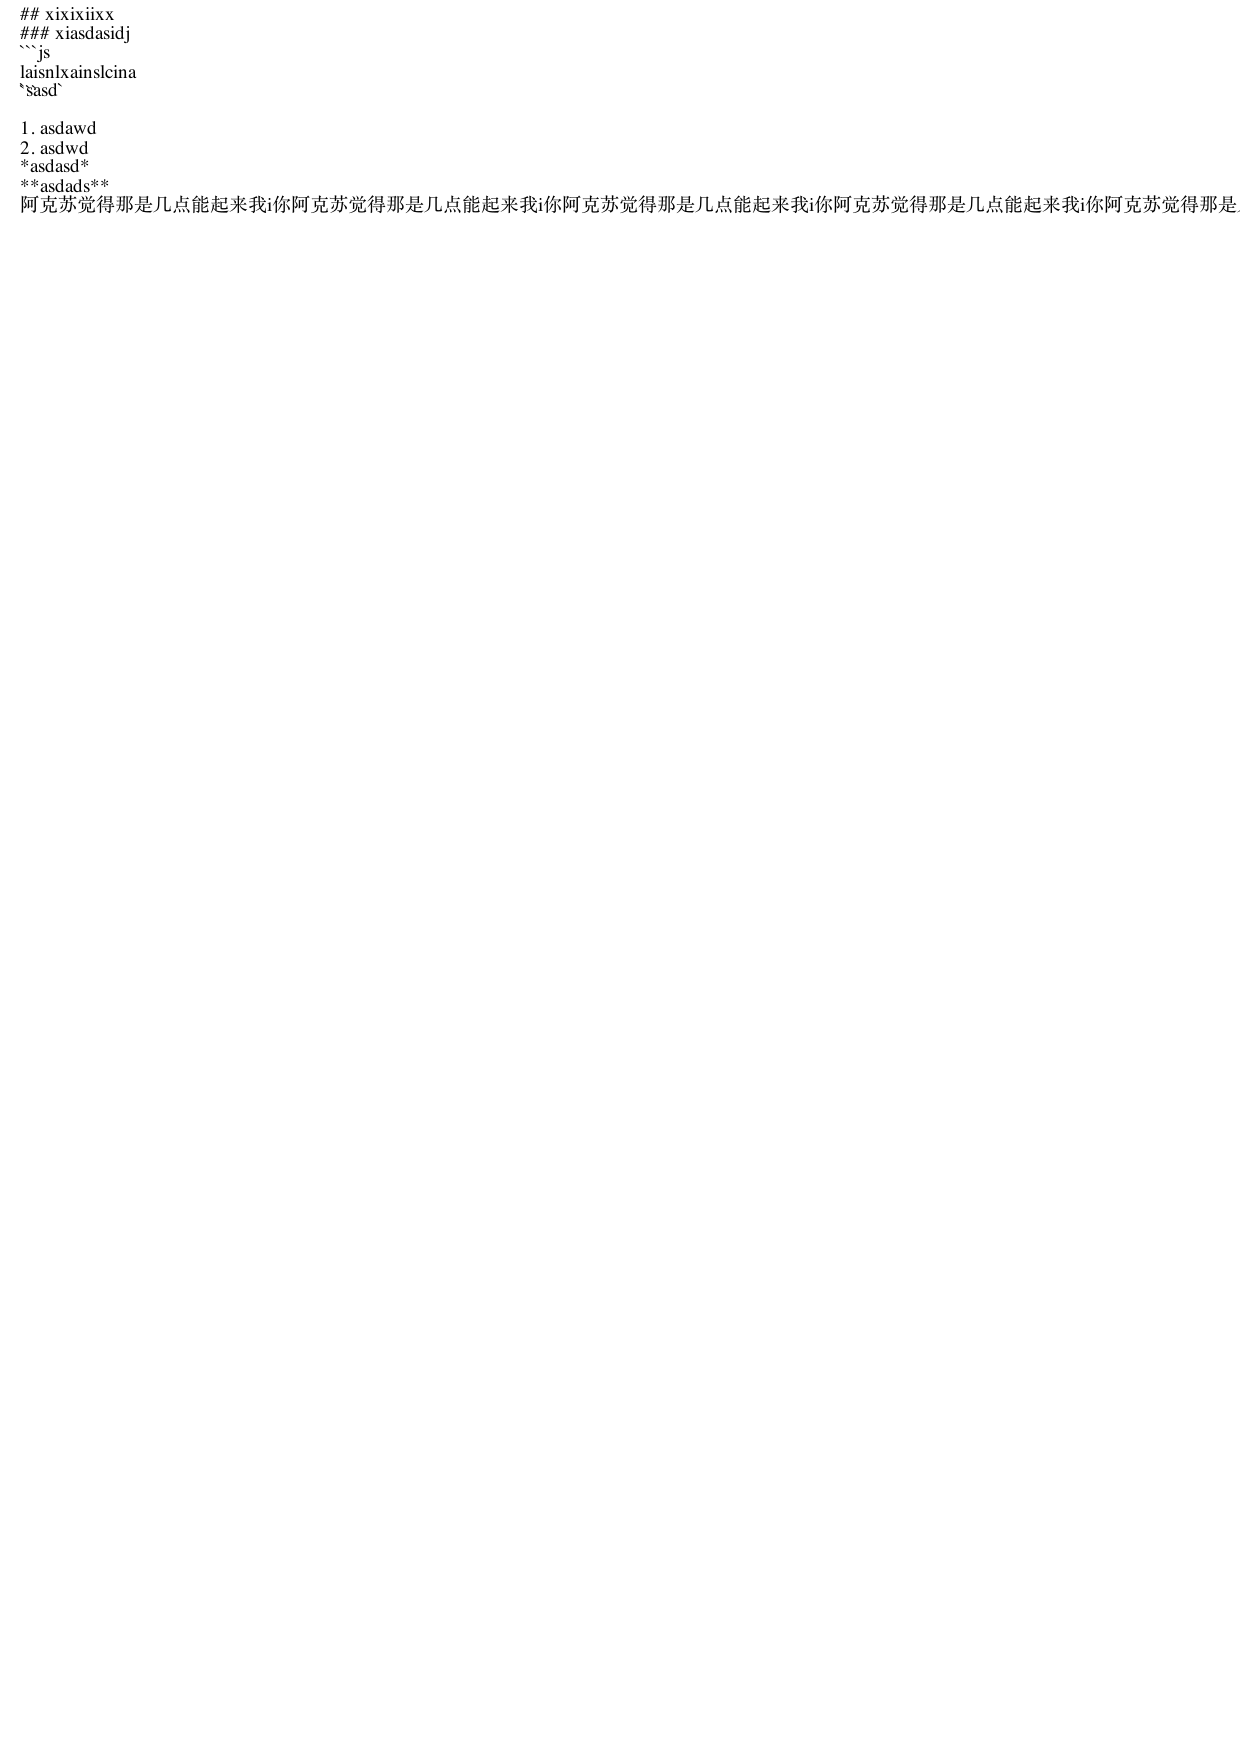
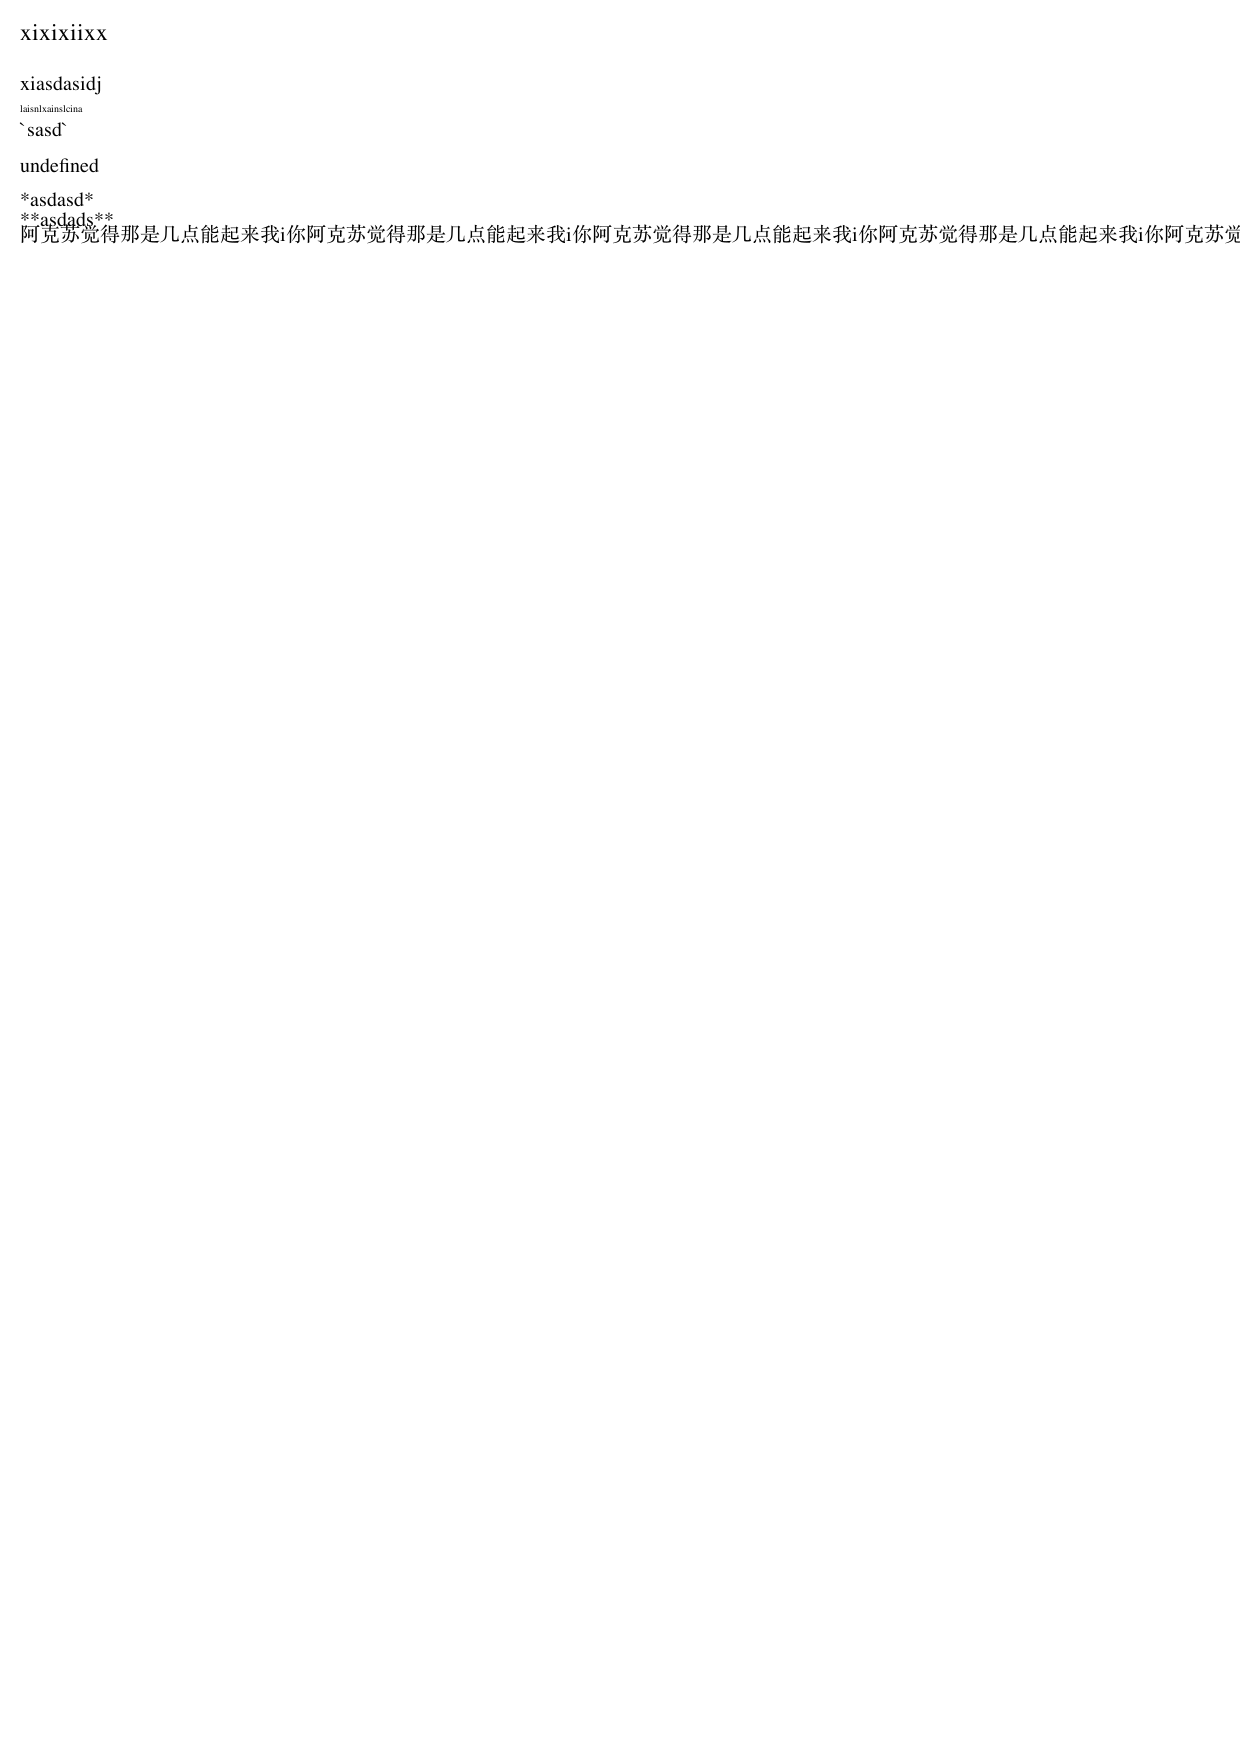
根据标签调整绘制字体

Changed region(s): [[0.0, 0.0, 1.0, 0.1539]]

diff --git a/src/rule.ts b/src/rule.ts
@@ -1,0 +1,85 @@
+type Rules = {
+    fontSize: number,
+    marginTop: number,
+    marginBottom: number,
+    blod: boolean
+}
+const em = 20
+
+const h1: Rules = {
+    fontSize: 2 * em,
+    marginTop: 0.67 * em,
+    marginBottom: 0.67 * em,
+    blod: true
+}
+const h2: Rules = {
+    fontSize: 1.5 * em,
+    marginTop: 0.83 * em,
+    marginBottom: 0.83 * em,
+    blod: true
+}
+const h3: Rules = {
+    fontSize: 1.17 * em,
+    marginTop: 1 * em,
+    marginBottom: 1 * em,
+    blod: true
+}
+const h4: Rules = {
+    fontSize: 1 * em,
+    marginTop: 1.33 * em,
+    marginBottom: 1.33 * em,
+    blod: true
+}
+const h5: Rules = {
+    fontSize: 0.83 * em,
+    marginTop: 1.67 * em,
+    marginBottom: 1.67 * em,
+    blod: true
+}
+const h6: Rules = {
+    fontSize: 0.67 * em,
+    marginTop: 2.33 * em,
+    marginBottom: 2.33 * em,
+    blod: true
+}
+export const Rules = {
+    heading: [
+        h1, h2, h3, h4, h5, h6
+    ],
+    text: {
+        fontSize: 1 * em,
+        marginTop: 0.1 * em,
+        marginBottom: 0.1 * em,
+        blod: false
+    },
+    strong: {
+        fontSize: 1 * em,
+        marginTop: 0.1 * em,
+        marginBottom: 0.1 * em,
+        blod: true
+    },
+    paragraph: {
+        fontSize: 1 * em,
+        marginTop: 0.1 * em,
+        marginBottom: 0.1 * em,
+        blod: true
+    },
+    space: {
+        fontSize: 0 * em,
+        marginTop: 0.6 * em,
+        marginBottom: 0.6 * em,
+        blod: false
+    },
+    code: {
+        fontSize: 0.5 * em,
+        marginTop: 0.1 * em,
+        marginBottom: 0.1 * em,
+        blod: false
+    },
+    list: {
+        fontSize: 1 * em,
+        marginTop: 0.2 * em,
+        marginBottom: 0.2 * em,
+        blod: true
+    }
+}

diff --git a/src/draw.ts b/src/draw.ts
@@ -1,4 +1,5 @@
-import { NodeCanvasRenderingContext2DSettings } from "canvas";
+import { marked } from "marked";
+import { Rules } from './rule'
 export const DrawObj = {
     space: (canvas: CanvasRenderingContext2D) => { console.log("space"); return canvas },
     code: (canvas: CanvasRenderingContext2D) => { console.log("code"); return canvas },
@@ -35,11 +36,17 @@ export class Pointer {
         this.set = [offset.xoffset, offset.yoffset]
     }
 
-    draw(ctx: any, content: string) {
-
+    draw(ctx: any, content: marked.Token) {
+        //@ts-ignore
+        const typeStyle = content.type === "heading" ? Rules.heading[content.depth] : Rules[content.type]
         ctx.fillStyle = "black"
-        ctx.font = fontSize
-        ctx.fillText(content, this.set[0], this.set[1])
-        this.set[1] += 19
+        ctx.font = typeStyle.fontSize + "px serif"
+        if (content.type === "space") {
+            ctx.fillText(content.raw, this.set[0], this.set[1] + typeStyle.marginTop)
+        } else {
+            //@ts-ignore
+            ctx.fillText(content.text, this.set[0], this.set[1] + typeStyle.marginTop)
+        }
+        this.set[1] = this.set[1] + typeStyle.fontSize + typeStyle.marginBottom
     }
 }

diff --git a/src/generator.ts b/src/generator.ts
@@ -12,16 +12,16 @@ export function GenCanvas(tokens: marked.TokensList) {
     ctx.fillRect(0, 0, 1240, 1754)//白色背景
     const pointer = new Pointer()
     while (tokens.length) {
-        pointer.draw(ctx, tokens[0].raw)
+        //@ts-ignore
+        pointer.draw(ctx, tokens.shift())
         // const type = tokens[0].type
         // if (type === "heading") {
         //     DrawObj[type](ctx, tokens[0].depth)
         // } else {
         //     DrawObj[type](ctx)
         // }
-        tokens.shift()
     }
-    console.log(canvas.toDataURL());//生成图片base64
+    //console.log(canvas.toDataURL());//生成图片base64
     canvas.createPNGStream().pipe(fs.createWriteStream(path.join(__dirname, 'test.png'))) // 生成本地图片(指定文件名)
 }
 
